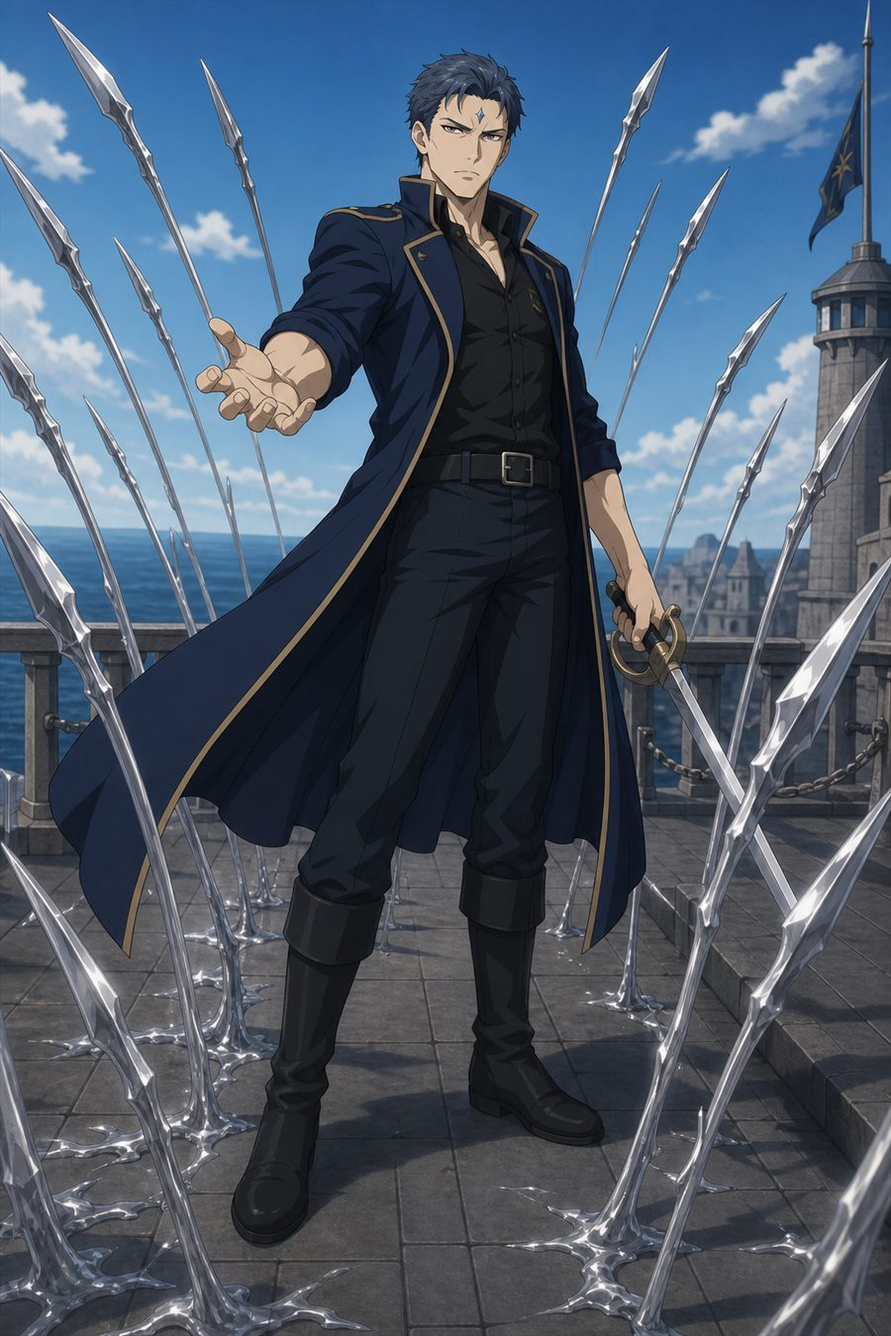
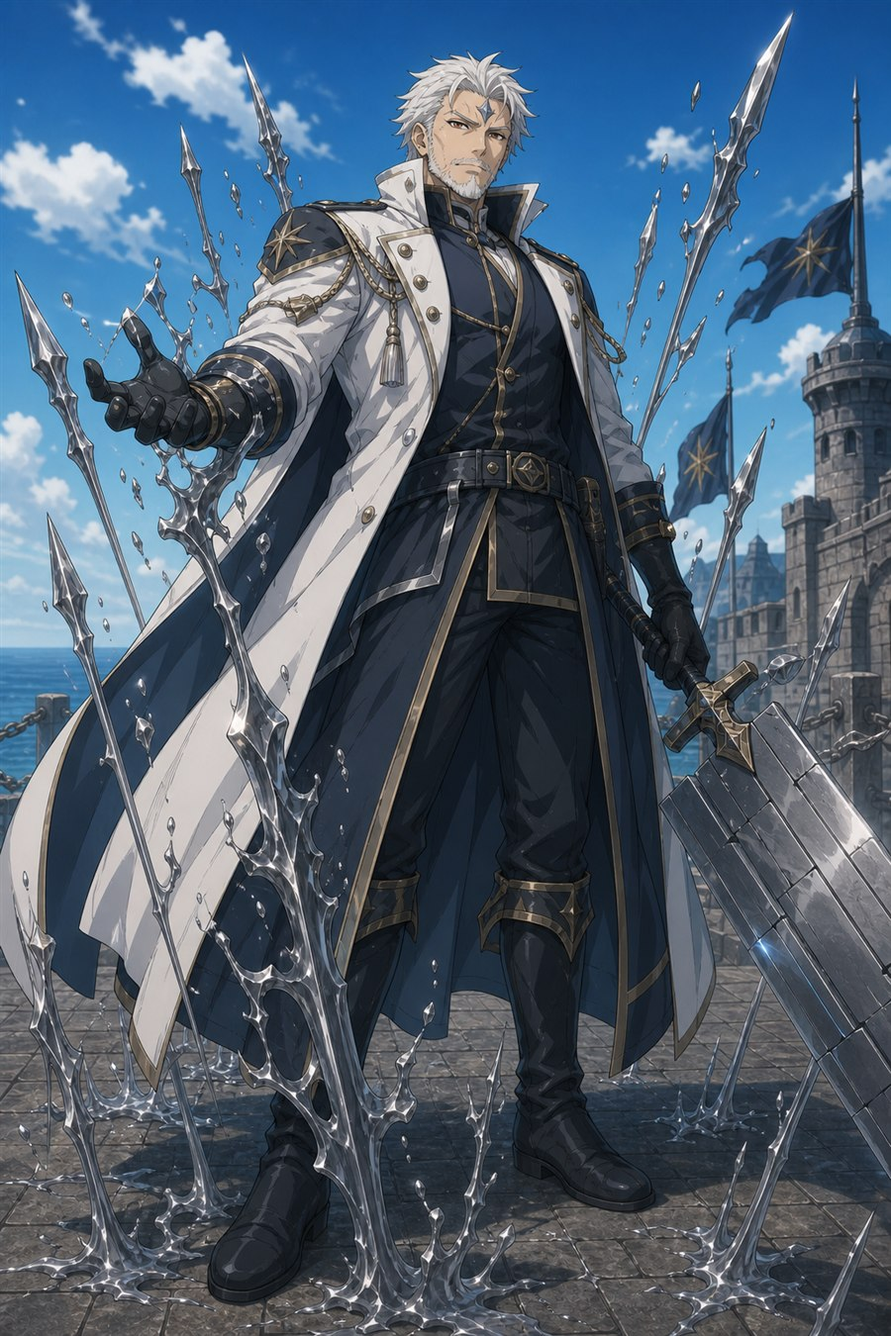
Finalize capital and four commander designs

diff --git a/site/candidates.html b/site/candidates.html
@@ -4,8 +4,8 @@
   <meta charset="utf-8">
   <meta name="viewport" content="width=device-width, initial-scale=1">
   <meta name="theme-color" content="#080c14">
-  <meta name="description" content="소울스톤 인간 연합의 거대 성과 육군·공군·해군·수비 대장 디자인 후보 50종">
-  <title>소울스톤 성·대장 디자인 후보</title>
+  <meta name="description" content="소울스톤 인간 연합의 거대 성과 육군·공군·해군·수비 대장 최종 디자인과 후보 아카이브">
+  <title>소울스톤 성·대장 최종 디자인</title>
   <link rel="stylesheet" href="concepts.css">
   <link rel="stylesheet" href="candidates.css">
 </head>
@@ -18,10 +18,10 @@
   <main>
     <header class="concept-intro choice-intro">
       <p>DESIGN SELECTION · 50 CANDIDATES</p>
-      <h1>성·4대장<br>후보 선택</h1>
+      <h1>성·4대장<br>최종 선택</h1>
       <div>
-        <p>성 10종과 인간 연합의 육군·공군·해군·수비 대장 각 10종입니다. 모든 후보는 현재 확정된 능력과 소울스톤 색을 유지하고, 외형과 무기 실루엣을 다르게 설계했습니다.</p>
-        <div class="choice-guide"><b>선택 방법</b><span>예: “성 03, 육군 04, 공군 02, 해군 10, 수비 01”처럼 번호만 알려주세요. 이미지를 누르면 크게 볼 수 있습니다.</span></div>
+        <p>성 03, 육군 09 수정안, 공군 10 수정안, 해군 06, 수비 01이 정본으로 확정되었습니다. 금색 테두리가 최종 선택이며, 다른 이미지는 디자인 과정의 후보 아카이브로 남깁니다.</p>
+        <div class="choice-guide"><b>선택 완료</b><span>육군 대장의 폴암 날과 공군 대장의 소울스톤 전투 부채까지 수정해 반영했습니다. 이미지를 누르면 크게 볼 수 있습니다.</span></div>
       </div>
     </header>
 
@@ -35,14 +35,14 @@
 
     <section class="candidate-section" id="castle" aria-labelledby="castle-title">
       <header class="candidate-head">
-        <p>HUMAN ALLIANCE CAPITAL · 10 / 10</p>
+        <p>HUMAN ALLIANCE CAPITAL · SELECTED 03 / 10</p>
         <h2 id="castle-title">인간 연합의<br>거대 성</h2>
         <span>구름 가까이 솟은 외벽 안에 시민의 마을과 일곱 가문의 구역이 있고, 중앙에는 모든 지붕을 압도하는 핵심 성채가 서 있습니다. 후반부에는 축적된 소울스톤으로 깨어나는 병기가 됩니다.</span>
       </header>
       <div class="candidate-grid castle-grid">
         <a class="candidate" href="assets/candidates-v1/castle/castle-01-concentric-white-capital.jpg" target="_blank" rel="noopener"><img src="assets/candidates-v1/castle/castle-01-concentric-white-capital.jpg" alt="성 후보 1 동심원 백색 수도" loading="eager"><div><b>01</b><span><strong>동심원 백색 수도</strong><small>정통 왕도 · 일곱 문 · 명확한 계층</small></span></div></a>
         <a class="candidate" href="assets/candidates-v1/castle/castle-02-mountain-terrace-capital.jpg" target="_blank" rel="noopener"><img src="assets/candidates-v1/castle/castle-02-mountain-terrace-capital.jpg" alt="성 후보 2 산맥 계단식 수도" loading="eager"><div><b>02</b><span><strong>산맥 계단식 수도</strong><small>배산 요새 · 수직 도시 · 험준함</small></span></div></a>
-        <a class="candidate" href="assets/candidates-v1/castle/castle-03-seven-district-capital.jpg" target="_blank" rel="noopener"><img src="assets/candidates-v1/castle/castle-03-seven-district-capital.jpg" alt="성 후보 3 칠각 일곱 구역 수도" loading="lazy"><div><b>03</b><span><strong>칠각 일곱 구역 수도</strong><small>칠대 가문 상징 · 기하학적 구조</small></span></div></a>
+        <a class="candidate selected" href="assets/candidates-v1/castle/castle-03-seven-district-capital.jpg" target="_blank" rel="noopener" aria-current="true"><img src="assets/candidates-v1/castle/castle-03-seven-district-capital.jpg" alt="성 최종 선택 3 칠각 일곱 구역 수도" loading="lazy"><div><b>03</b><span><strong>칠각 일곱 구역 수도</strong><small>최종 선택 · 칠대 가문 · 중앙성채</small></span></div></a>
         <a class="candidate" href="assets/candidates-v1/castle/castle-04-canal-ring-capital.jpg" target="_blank" rel="noopener"><img src="assets/candidates-v1/castle/castle-04-canal-ring-capital.jpg" alt="성 후보 4 운하 고리 수도" loading="lazy"><div><b>04</b><span><strong>운하 고리 수도</strong><small>수운 도시 · 다층 방어 · 생활감</small></span></div></a>
         <a class="candidate" href="assets/candidates-v1/castle/castle-05-black-basalt-capital.jpg" target="_blank" rel="noopener"><img src="assets/candidates-v1/castle/castle-05-black-basalt-capital.jpg" alt="성 후보 5 흑요 현무암 수도" loading="lazy"><div><b>05</b><span><strong>흑요 현무암 수도</strong><small>위압적 제국 · 붉은 불빛 · 병기성</small></span></div></a>
         <a class="candidate" href="assets/candidates-v1/castle/castle-06-bridge-aqueduct-capital.jpg" target="_blank" rel="noopener"><img src="assets/candidates-v1/castle/castle-06-bridge-aqueduct-capital.jpg" alt="성 후보 6 교량 수로 수도" loading="lazy"><div><b>06</b><span><strong>교량 수로 수도</strong><small>거대 교각 · 생활 기반 · 장대한 규모</small></span></div></a>
@@ -54,7 +54,7 @@
     </section>
 
     <section class="candidate-section" id="army" aria-labelledby="army-title">
-      <header class="candidate-head"><p>ARMY COMMANDER · SAND / POLEARM</p><h2 id="army-title">육군 대장</h2><span>모래 병사를 부리고 전장을 사막으로 바꾸는 강자입니다. 폴암의 칼날 전체가 과거 모래 전사의 거친 모래색 소울스톤입니다.</span></header>
+      <header class="candidate-head"><p>ARMY COMMANDER · SELECTED 09 / 10</p><h2 id="army-title">육군 대장</h2><span>09의 인물 디자인을 선택하고 무기 머리를 찌르기와 베기가 모두 가능한 폴암으로 수정했습니다. 여러 날 전체가 과거 모래 전사의 거친 모래색 소울스톤입니다.</span></header>
       <div class="candidate-grid compact-grid">
         <a class="candidate" href="assets/candidates-v1/army/army-01-command-coat.jpg" target="_blank" rel="noopener"><img src="assets/candidates-v1/army/army-01-command-coat.jpg" alt="육군 대장 후보 1" loading="lazy"><div><b>01</b><span><strong>흑발 지휘관</strong><small>장교 코트 · 정통 카리스마</small></span></div></a>
         <a class="candidate" href="assets/candidates-v1/army/army-02-silver-prodigy.jpg" target="_blank" rel="noopener"><img src="assets/candidates-v1/army/army-02-silver-prodigy.jpg" alt="육군 대장 후보 2" loading="lazy"><div><b>02</b><span><strong>은갈색 천재 장군</strong><small>젊은 강자 · 얼굴 흉터</small></span></div></a>
@@ -64,13 +64,13 @@
         <a class="candidate" href="assets/candidates-v1/army/army-06-masked-executioner.jpg" target="_blank" rel="noopener"><img src="assets/candidates-v1/army/army-06-masked-executioner.jpg" alt="육군 대장 후보 6" loading="lazy"><div><b>06</b><span><strong>사막의 집행자</strong><small>가면 · 공포 · 미스터리</small></span></div></a>
         <a class="candidate" href="assets/candidates-v1/army/army-07-blond-aristocrat.jpg" target="_blank" rel="noopener"><img src="assets/candidates-v1/army/army-07-blond-aristocrat.jpg" alt="육군 대장 후보 7" loading="lazy"><div><b>07</b><span><strong>금발 귀족 장군</strong><small>오만함 · 완성형 전사</small></span></div></a>
         <a class="candidate" href="assets/candidates-v1/army/army-08-silver-braided.jpg" target="_blank" rel="noopener"><img src="assets/candidates-v1/army/army-08-silver-braided.jpg" alt="육군 대장 후보 8" loading="lazy"><div><b>08</b><span><strong>은빛 땋은머리 장군</strong><small>묵직한 실전파</small></span></div></a>
-        <a class="candidate" href="assets/candidates-v1/army/army-09-bearded-veteran.jpg" target="_blank" rel="noopener"><img src="assets/candidates-v1/army/army-09-bearded-veteran.jpg" alt="육군 대장 후보 9" loading="lazy"><div><b>09</b><span><strong>적갈색 수염 장군</strong><small>노련함 · 거친 전장미</small></span></div></a>
+        <a class="candidate selected" href="assets/candidates-v1/army/army-09-bearded-veteran-polearm-v2.jpg" target="_blank" rel="noopener" aria-current="true"><img src="assets/candidates-v1/army/army-09-bearded-veteran-polearm-v2.jpg" alt="육군 대장 최종 선택 9 폴암 수정안" loading="lazy"><div><b>09</b><span><strong>적갈색 수염 장군</strong><small>최종 선택 · 소울스톤 폴암 수정안</small></span></div></a>
         <a class="candidate" href="assets/candidates-v1/army/army-10-ash-haired-quiet.jpg" target="_blank" rel="noopener"><img src="assets/candidates-v1/army/army-10-ash-haired-quiet.jpg" alt="육군 대장 후보 10" loading="lazy"><div><b>10</b><span><strong>잿빛 침묵의 장군</strong><small>절제 · 무표정 · 날카로움</small></span></div></a>
       </div>
     </section>
 
     <section class="candidate-section" id="air" aria-labelledby="air-title">
-      <header class="candidate-head"><p>AIR COMMANDER · WIND / AERIAL MOBILITY</p><h2 id="air-title">공군 대장</h2><span>날개 없이 바람을 발판 삼아 비행하고, 압축된 공기와 참격으로 공중전을 지배합니다. 소울스톤은 옅은 청록색입니다.</span></header>
+      <header class="candidate-head"><p>AIR COMMANDER · SELECTED 10 / 10</p><h2 id="air-title">공군 대장</h2><span>10의 인물 디자인을 선택하고 바람구체 대신 옅은 청록색 소울스톤으로 만들어진 한 자루의 대형 전투 부채를 추가했습니다. 부채가 압축풍을 모아 광역 참격으로 펼칩니다.</span></header>
       <div class="candidate-grid compact-grid">
         <a class="candidate" href="assets/candidates-v1/air/air-01-ponytail-saber.jpg" target="_blank" rel="noopener"><img src="assets/candidates-v1/air/air-01-ponytail-saber.jpg" alt="공군 대장 후보 1" loading="lazy"><div><b>01</b><span><strong>흑발 풍검 지휘관</strong><small>세이버 · 정통 공중전</small></span></div></a>
         <a class="candidate" href="assets/candidates-v1/air/air-02-silver-twin-blades.jpg" target="_blank" rel="noopener"><img src="assets/candidates-v1/air/air-02-silver-twin-blades.jpg" alt="공군 대장 후보 2" loading="lazy"><div><b>02</b><span><strong>은발 쌍검 장군</strong><small>여성 · 고속 기동</small></span></div></a>
@@ -81,19 +81,19 @@
         <a class="candidate" href="assets/candidates-v1/air/air-07-crescent-glaive.jpg" target="_blank" rel="noopener"><img src="assets/candidates-v1/air/air-07-crescent-glaive.jpg" alt="공군 대장 후보 7" loading="lazy"><div><b>07</b><span><strong>적갈색 월도 장군</strong><small>여성 · 넓은 참격 범위</small></span></div></a>
         <a class="candidate" href="assets/candidates-v1/air/air-08-wind-gauntlets.jpg" target="_blank" rel="noopener"><img src="assets/candidates-v1/air/air-08-wind-gauntlets.jpg" alt="공군 대장 후보 8" loading="lazy"><div><b>08</b><span><strong>풍압 권투 장군</strong><small>건틀릿 · 육탄 공중전</small></span></div></a>
         <a class="candidate" href="assets/candidates-v1/air/air-09-war-fan.jpg" target="_blank" rel="noopener"><img src="assets/candidates-v1/air/air-09-war-fan.jpg" alt="공군 대장 후보 9" loading="lazy"><div><b>09</b><span><strong>남색 군선 장군</strong><small>여성 · 지휘와 광역풍</small></span></div></a>
-        <a class="candidate" href="assets/candidates-v1/air/air-10-wind-sphere-ace.jpg" target="_blank" rel="noopener"><img src="assets/candidates-v1/air/air-10-wind-sphere-ace.jpg" alt="공군 대장 후보 10" loading="lazy"><div><b>10</b><span><strong>바람구체 에이스</strong><small>무기 없는 초능력형</small></span></div></a>
+        <a class="candidate selected" href="assets/candidates-v1/air/air-10-soulstone-war-fan-v2.jpg" target="_blank" rel="noopener" aria-current="true"><img src="assets/candidates-v1/air/air-10-soulstone-war-fan-v2.jpg" alt="공군 대장 최종 선택 10 소울스톤 부채 수정안" loading="lazy"><div><b>10</b><span><strong>소울스톤 부채 에이스</strong><small>최종 선택 · 청록 결정 전투 부채</small></span></div></a>
       </div>
     </section>
 
     <section class="candidate-section" id="navy" aria-labelledby="navy-title">
-      <header class="candidate-head"><p>NAVY COMMANDER · MOLTEN STEEL / SHAPING</p><h2 id="navy-title">해군 대장</h2><span>강철을 녹이고 굳혀 칼날·창·사슬을 즉석에서 만듭니다. 물이 아니라 금속 자체가 능력이며, 소울스톤은 청회색 금속빛입니다.</span></header>
+      <header class="candidate-head"><p>NAVY COMMANDER · SELECTED 06 / 10</p><h2 id="navy-title">해군 대장</h2><span>백발의 노련한 대검 베테랑으로 확정했습니다. 강철을 녹이고 굳혀 칼날·창·장갑을 즉석에서 만들며, 물이 아니라 금속 자체가 능력입니다.</span></header>
       <div class="candidate-grid compact-grid">
         <a class="candidate" href="assets/candidates-v1/navy/navy-01-steel-saber.jpg" target="_blank" rel="noopener"><img src="assets/candidates-v1/navy/navy-01-steel-saber.jpg" alt="해군 대장 후보 1" loading="lazy"><div><b>01</b><span><strong>남색 강철검 장군</strong><small>세이버 · 다중 강철창</small></span></div></a>
         <a class="candidate" href="assets/candidates-v1/navy/navy-02-steel-ribbons.jpg" target="_blank" rel="noopener"><img src="assets/candidates-v1/navy/navy-02-steel-ribbons.jpg" alt="해군 대장 후보 2" loading="lazy"><div><b>02</b><span><strong>은발 강철리본 장군</strong><small>여성 · 유연한 금속 제어</small></span></div></a>
         <a class="candidate" href="assets/candidates-v1/navy/navy-03-anchor-gauntlets.jpg" target="_blank" rel="noopener"><img src="assets/candidates-v1/navy/navy-03-anchor-gauntlets.jpg" alt="해군 대장 후보 3" loading="lazy"><div><b>03</b><span><strong>닻 건틀릿 장군</strong><small>중량형 · 근접 파괴력</small></span></div></a>
         <a class="candidate" href="assets/candidates-v1/navy/navy-04-hardened-blade.jpg" target="_blank" rel="noopener"><img src="assets/candidates-v1/navy/navy-04-hardened-blade.jpg" alt="해군 대장 후보 4" loading="lazy"><div><b>04</b><span><strong>장발 경화검 장군</strong><small>차가움 · 정밀한 형태변환</small></span></div></a>
         <a class="candidate" href="assets/candidates-v1/navy/navy-05-steel-trident.jpg" target="_blank" rel="noopener"><img src="assets/candidates-v1/navy/navy-05-steel-trident.jpg" alt="해군 대장 후보 5" loading="lazy"><div><b>05</b><span><strong>강철 삼지창 장군</strong><small>여성 · 해군 상징성</small></span></div></a>
-        <a class="candidate" href="assets/candidates-v1/navy/navy-06-steel-greatblade.jpg" target="_blank" rel="noopener"><img src="assets/candidates-v1/navy/navy-06-steel-greatblade.jpg" alt="해군 대장 후보 6" loading="lazy"><div><b>06</b><span><strong>백발 대검 베테랑</strong><small>노련함 · 거대한 강철량</small></span></div></a>
+        <a class="candidate selected" href="assets/candidates-v1/navy/navy-06-steel-greatblade.jpg" target="_blank" rel="noopener" aria-current="true"><img src="assets/candidates-v1/navy/navy-06-steel-greatblade.jpg" alt="해군 대장 최종 선택 6 백발 대검 베테랑" loading="lazy"><div><b>06</b><span><strong>백발 대검 베테랑</strong><small>최종 선택 · 거대한 강철량</small></span></div></a>
         <a class="candidate" href="assets/candidates-v1/navy/navy-07-steel-needles.jpg" target="_blank" rel="noopener"><img src="assets/candidates-v1/navy/navy-07-steel-needles.jpg" alt="해군 대장 후보 7" loading="lazy"><div><b>07</b><span><strong>청록 강철침 장군</strong><small>언더컷 · 고속 사격</small></span></div></a>
         <a class="candidate" href="assets/candidates-v1/navy/navy-08-chain-spear.jpg" target="_blank" rel="noopener"><img src="assets/candidates-v1/navy/navy-08-chain-spear.jpg" alt="해군 대장 후보 8" loading="lazy"><div><b>08</b><span><strong>강철 사슬창 장군</strong><small>여성 · 포획과 제압</small></span></div></a>
         <a class="candidate" href="assets/candidates-v1/navy/navy-09-anchor-cleaver.jpg" target="_blank" rel="noopener"><img src="assets/candidates-v1/navy/navy-09-anchor-cleaver.jpg" alt="해군 대장 후보 9" loading="lazy"><div><b>09</b><span><strong>닻 도끼 장군</strong><small>금발 · 정면 압도</small></span></div></a>
@@ -102,9 +102,9 @@
     </section>
 
     <section class="candidate-section" id="defense" aria-labelledby="defense-title">
-      <header class="candidate-head"><p>DEFENSE COMMANDER · LIGHT / BRUTE FORCE</p><h2 id="defense-title">수비 대장</h2><span>빛을 갑옷과 무기에 둘러 성문을 지키는 인간 연합 최강의 힘캐입니다. 따뜻한 백금색 소울스톤과 무너지지 않는 실루엣이 핵심입니다.</span></header>
+      <header class="candidate-head"><p>DEFENSE COMMANDER · SELECTED 01 / 10</p><h2 id="defense-title">수비 대장</h2><span>은발의 광휘 대검기사로 확정했습니다. 빛을 중갑과 대검에 둘러 성문을 지키는 인간 연합 최강의 힘캐입니다.</span></header>
       <div class="candidate-grid compact-grid">
-        <a class="candidate" href="assets/candidates-v1/defense/defense-01-silver-greatsword.jpg" target="_blank" rel="noopener"><img src="assets/candidates-v1/defense/defense-01-silver-greatsword.jpg" alt="수비 대장 후보 1" loading="lazy"><div><b>01</b><span><strong>은발 광휘 대검기사</strong><small>정통 영웅형 · 압도적 힘</small></span></div></a>
+        <a class="candidate selected" href="assets/candidates-v1/defense/defense-01-silver-greatsword.jpg" target="_blank" rel="noopener" aria-current="true"><img src="assets/candidates-v1/defense/defense-01-silver-greatsword.jpg" alt="수비 대장 최종 선택 1 은발 광휘 대검기사" loading="lazy"><div><b>01</b><span><strong>은발 광휘 대검기사</strong><small>최종 선택 · 대검 · 압도적 완력</small></span></div></a>
         <a class="candidate" href="assets/candidates-v1/defense/defense-02-shield-and-hammer.jpg" target="_blank" rel="noopener"><img src="assets/candidates-v1/defense/defense-02-shield-and-hammer.jpg" alt="수비 대장 후보 2" loading="lazy"><div><b>02</b><span><strong>흑발 방패망치 기사</strong><small>수문장 · 우직한 방어</small></span></div></a>
         <a class="candidate" href="assets/candidates-v1/defense/defense-03-light-gauntlets.jpg" target="_blank" rel="noopener"><img src="assets/candidates-v1/defense/defense-03-light-gauntlets.jpg" alt="수비 대장 후보 3" loading="lazy"><div><b>03</b><span><strong>백발 광권 기사</strong><small>여성 · 빛 건틀릿 · 육탄전</small></span></div></a>
         <a class="candidate" href="assets/candidates-v1/defense/defense-04-fortress-shield.jpg" target="_blank" rel="noopener"><img src="assets/candidates-v1/defense/defense-04-fortress-shield.jpg" alt="수비 대장 후보 4" loading="lazy"><div><b>04</b><span><strong>금발 성채방패 기사</strong><small>거구 · 절대 방어</small></span></div></a>
@@ -117,7 +117,7 @@
       </div>
     </section>
 
-    <aside class="selection-footer"><p><b>다음 단계:</b> 다섯 항목의 번호가 정해지면 선택된 디자인을 정본 캐릭터 이미지와 세계관 문서, 소설·웹툰 대표 이미지에 순서대로 반영할 수 있습니다.</p><a href="#castle">맨 위로 ↑</a></aside>
+    <aside class="selection-footer"><p><b>정본 반영 완료:</b> 선택된 성과 네 대장은 세계관 문서, 캐릭터 바이블과 공개 캐릭터 갤러리의 정본 이미지로 연결되어 있습니다.</p><a href="#castle">맨 위로 ↑</a></aside>
   </main>
 
   <footer><a href="index.html">← 시작 화면으로 돌아가기</a></footer>

diff --git a/site/app.js b/site/app.js
@@ -35,7 +35,7 @@
     ["2대 국가원수", "인간연합", "assets/characters/important/05-second-marshal-dragon-relic.jpg", "용의 유물 소울스톤을 사용하는 전대 원수. 최종전에서 1대 원수와 서로의 시대를 끝낸다.", ["용의 유물", "2대 원수"]],
     ["3대 국가원수", "인간연합", "assets/characters/important/06-third-marshal-telekinesis.jpg", "감정 표현이 거의 없는 염동력 사용자. 주인공에게 패배한 뒤 살아서 전군 정전을 명령한다.", ["밀기와 당기기", "무채색 회색", "정전"]],
     ["모래의 육군 대장", "인간연합", "assets/characters/important/07-army-commander-sand.jpg", "주인공의 부모를 죽이고 형을 병기로 훈련시킨 인물. 네 대장 중 유일하게 최종전에서 죽는다.", ["모래 병사", "폴암", "가족의 원수"]],
-    ["바람의 공군 대장", "인간연합", "assets/characters/important/08-air-commander-wind.jpg", "압축 풍압과 광역 절단을 쓰는 공중전 지휘관. 늑대인간과 하피족에게 패배한다.", ["바람", "공중 기동"]],
+    ["바람의 공군 대장", "인간연합", "assets/characters/important/08-air-commander-wind.jpg", "청록색 소울스톤 전투 부채로 압축 풍압과 광역 절단을 쓰는 공중전 지휘관. 늑대인간과 하피족에게 패배한다.", ["바람", "소울스톤 부채", "공중 기동"]],
     ["강철의 해군 대장", "인간연합", "assets/characters/important/09-navy-commander-steel.jpg", "강철을 녹이고 굳혀 파도와 창, 장갑으로 바꾸는 지휘관. 반인반용과 어인족이 맞선다.", ["강철", "해군"]],
     ["빛의 수비 대장", "인간연합", "assets/characters/important/10-defense-commander-light.jpg", "빛과 압도적인 완력을 쓰는 중갑 기사. 트롤 대장과 수정동굴 공동체가 성문에서 맞선다.", ["빛", "완력", "수비"]],
     ["육군 1번대 중장", "인간연합", "assets/characters/important/11-army-first-vice-admiral-shards.jpg", "거대한 검을 수많은 작은 칼날로 분해하는 여성 지휘관. 단검 사용자의 옛 상관이다.", ["분할 칼날", "여성 지휘관"]],

diff --git a/site/archive.html b/site/archive.html
@@ -119,6 +119,7 @@
         <p>캐주얼한 현대 애니메이션 선화와 밝은 셀 채색을 기준으로 인물과 종족의 인상을 통일했다.</p>
       </header>
       <div class="visual-mosaic">
+        <figure class="wide"><img src="assets/locations/01-human-alliance-capital.jpg" alt="칠각 일곱 구역으로 나뉜 인간 연합 중앙성" loading="lazy"><figcaption>인간 연합 중앙성 · 03 칠각 일곱 구역 수도</figcaption></figure>
         <figure class="wide"><img src="assets/characters/anime-v4/05-beastfolk-leaders-anime-v4.jpg" alt="늑대인간 지도자와 사자인간 2인자" loading="lazy"><figcaption>반인반수 지도자와 2인자</figcaption></figure>
         <figure><img src="assets/characters/anime-v4/06-troll-leader-anime-v4.jpg" alt="젊은 트롤 대장" loading="lazy"><figcaption>수정동굴의 트롤 대장</figcaption></figure>
         <figure><img src="assets/characters/anime-v4/07-golem-leader-anime-v4.jpg" alt="인간형 돌 골렘 대장" loading="lazy"><figcaption>자연에서 태어난 골렘 대장</figcaption></figure>

diff --git a/site/concepts.html b/site/concepts.html
@@ -11,7 +11,7 @@
 <body>
   <header class="concept-header">
     <a href="index.html">SOULSTONE</a>
-    <nav><a href="candidates.html">성·대장 후보</a><a href="archive.html#characters">캐릭터 목록</a><a href="index.html">시작 화면</a></nav>
+    <nav><a href="candidates.html">성·대장 최종안</a><a href="archive.html#characters">캐릭터 목록</a><a href="index.html">시작 화면</a></nav>
   </header>
   <main>
     <header class="concept-intro">

diff --git a/site/index.html b/site/index.html
@@ -57,7 +57,7 @@
 
   <footer class="portal-footer">
     <span>ORIGINAL DARK FANTASY PROJECT</span>
-    <a href="candidates.html">성·대장 후보 선택</a>
+    <a href="candidates.html">성·대장 최종 디자인</a>
     <a href="archive.html#archive">전체 자료실</a>
   </footer>
 </body>

diff --git a/docs/05-soulstone-rules.md b/docs/05-soulstone-rules.md
@@ -45,6 +45,7 @@
 4. 유물을 바꾸려면 현재 유물의 연결을 완전히 끊고 다음 유물과 연결해야 한다. 전투 중 교체는 큰 공백과 부담을 만든다.
 5. 사자인간의 너클에 여러 선조의 돌이 박혀 있어도 한 순간에는 하나만 활성화된다. 나머지는 휴면 상태다.
 6. 육군 대장은 자신의 모래 능력과 폴암 유물 하나를 함께 쓴다. 타고난 소울스톤은 외부 유물 제한에 포함하지 않는다.
+7. 공군 대장은 자신의 바람 능력과 소울스톤 전투 부채 하나를 함께 쓴다. 부채의 살과 판은 장식용으로 여러 돌을 붙인 것이 아니라 하나의 유물 소울스톤을 펼친 구조다.
 
 ## 6. 주인공 쌍검의 예외
 
@@ -62,6 +63,7 @@
 | 뱀파이어 쌍검 | 일란성 쌍둥이 뱀파이어 | 피를 흡수할수록 사용자 강화, 쌍둥이 인격 소환 | 심장과 생명 소모, 인격 침식 |
 | 빙관의 군주 | 강력한 얼음 군주 | 희고 푸른 칼날 전체가 소울스톤. 극도로 정밀한 냉기와 결빙 | 진주빛 흰 소울스톤의 노인은 검술 보조로만 사용 |
 | 모래색 폴암 날 | 과거의 강대한 모래 전사 | 거친 모래색 칼날 전체가 소울스톤. 모래 병사와 지형 조작 강화 | 육군 대장의 타고난 모래 능력과 결합 |
+| 청록색 전투 부채 | 전 주인 미정 | 살과 넓은 판 전체가 하나의 소울스톤. 바람을 압축하고 펼쳐 광역 참격 증폭 | 공군 대장의 타고난 바람 능력과 결합 |
 | 하늘빛 거대 수정 원석 | 트롤 선조 계통 | 받은 충격 저장 및 일괄 방출 | 저장량만큼 무거워짐 |
 | 사자의 선조 너클 | 여러 반인반수 선조 | 선택한 선조의 특징을 너클에 부여 | 한 번에 한 돌만 활성화 가능 |
 | 2대 원수의 용 유물 | 죽은 용 | 용의 신체·에너지 계통 능력 | 구체 대가 추후 확정 |

diff --git a/docs/07-novel.md b/docs/07-novel.md
@@ -198,7 +198,7 @@
 
 흑영대가 먼저 수용소의 문과 성문 장치를 열었다. 골렘은 성벽을 무너뜨리는 대신 피난용 다리와 지하 통로를 만들었다. 거미인간은 실의 진동으로 전장의 움직임을 하나의 망에 연결했다. 오크 검성은 난민 행렬과 소년 사이에서 한 발도 물러나지 않았다.
 
-바다에서는 어인족이 해군의 소울스톤 수송선을 멈추고 수로를 열었다. 하피족은 공중에서 민간인의 위치를 표시했다. 늑대인간과 하피는 바람의 공군 대장을 꺾었지만 죽이지 않았다. 반인반용과 어인들은 강철의 해군 대장을 제압했고, 트롤 대장은 저장한 충격을 한 번에 방출해 빛의 수비 대장을 무릎 꿇렸다. 세 대장은 살아남았다.
+바다에서는 어인족이 해군의 소울스톤 수송선을 멈추고 수로를 열었다. 하피족은 공중에서 민간인의 위치를 표시했다. 공군 대장이 옅은 청록색 소울스톤 부채를 펼칠 때마다 압축된 바람이 하늘을 길게 갈랐지만, 늑대인간과 하피는 그를 꺾고도 죽이지 않았다. 반인반용과 어인들은 백발의 해군 대장이 일으킨 강철의 대검과 파도를 제압했고, 트롤 대장은 저장한 충격을 한 번에 방출해 은발 수비 대장을 무릎 꿇렸다. 세 대장은 살아남았다.
 
 육군 대장 앞에는 형이 섰다. 모래는 그의 살을 깎았고, 형의 몸은 상처를 견딜 때마다 변했다. 그는 부모를 죽인 자에게 적응하면서도 계속 피를 흘렸다. 장로회가 자신을 원수로 만들 생각이 아니라 통제 가능한 기계로만 보았다는 명령서가 그의 손에 있었다.
 

diff --git a/docs/03-character-bible.md b/docs/03-character-bible.md
@@ -193,23 +193,27 @@
 
 ### 육군 대장
 
-- 모래 능력과 모래 병사를 사용한다. 폴암은 거친 모래색 칼날 전체가 과거 강대한 모래 전사의 유물 소울스톤이다.
+- 외형 정본: 09 적갈색 수염 장군 수정안. 거친 전장에서 살아남은 노련한 베테랑이다.
+- 모래 능력과 모래 병사를 사용한다. 긴 찌르기 날과 좌우 베기 날을 가진 폴암의 머리 전체가 과거 강대한 모래 전사의 거친 모래색 유물 소울스톤이다.
 - 주인공의 부모를 죽였고 형의 실전 훈련을 담당했다.
 - 자신의 폭력을 질서 유지로 정당화한다.
 - 최종전에서 적응 진화를 쓰는 형에게 죽는다. 네 대장 중 유일한 사망자다.
 
 ### 공군 대장
 
-- 바람 능력. 공중 기동, 압축 풍압과 광역 절단에 능하다.
+- 외형 정본: 10 바람 에이스 수정안. 옅은 청록색 소울스톤 부채를 든 은회색 장발의 지휘관이다.
+- 바람 능력. 날개 없이 공중을 이동하고 압축 풍압과 광역 절단을 사용한다. 한 자루의 대형 전투 부채는 살과 판 전체가 하나의 유물 소울스톤이며 바람을 모으고 펼치는 증폭기다.
 - 늑대인간과 하피족에게 패배하지만 살아남는다.
 
 ### 해군 대장
 
+- 외형 정본: 06 백발 대검 베테랑.
 - 강철을 녹이고 굳히며 창, 파편, 장갑, 파도 형태로 변환한다.
 - 반인반용과 어인족에게 패배하지만 살아남는다.
 
 ### 수비 대장
 
+- 외형 정본: 01 은발 광휘 대검기사.
 - 전신 갑옷, 빛과 압도적인 완력의 기사.
 - 트롤 대장에게 패배하지만 살아남는다.
 

diff --git a/docs/10-castle-commander-candidate-prompts.md b/docs/10-castle-commander-candidate-prompts.md
@@ -50,3 +50,13 @@
 > Original top-ranked human defense commander, full-body anime character concept. Massive armored knight, warm white-gold forehead Soulstone, light power and overwhelming physical strength. Must look like an unmovable human fortress rather than a generic holy knight. Casual modern 2D TV-anime line art and cel shading, no text or logo.
 
 변형: 은발 대검 / 흑발 방패와 망치 / 백발 광권 여성 / 금발 성채방패 / 적갈색 광창 여성 / 태양 망치 / 흑발 거검 여성 / 은장발 중창 / 쌍원방패 여성 / 성문방패 베테랑.
+
+## 최종 선택과 수정
+
+- 중앙성: 03 칠각 일곱 구역 수도.
+- 육군 대장: 09 적갈색 수염 장군. 기존의 둔중한 결정 무기 머리만 긴 찌르기 날, 좌우 베기 날과 뒤쪽 갈고리가 분명한 폴암으로 수정했다. 머리 전체는 하나의 거친 모래색 소울스톤이며 인물과 배경은 유지했다.
+- 공군 대장: 10 바람 에이스. 양손의 바람구체를 제거하고, 살과 넓은 판 전체가 옅은 청록색 결정인 한 자루의 소울스톤 전투 부채를 추가했다. 인물과 공중 구도, 주변 바람의 흐름은 유지했다.
+- 해군 대장: 06 백발 대검 베테랑.
+- 수비 대장: 01 은발 광휘 대검기사.
+
+수정본도 OpenAI 내장 이미지 편집 모드로 제작했다. 정본 원본은 `important-characters-v1`, 성 정본은 `important-locations-v1`에 반영했다.

diff --git a/docs/00-canon-decisions.md b/docs/00-canon-decisions.md
@@ -31,6 +31,16 @@
 10. **여성 거미인간 대장 — 09 백색동굴거미 청망자**
    - 백발과 반투명 상아색 보조다리 네 개, 옅은 보라색 소울스톤을 지닌 탐지형 지도자로 확정한다.
    - 동굴과 전장 전체에 감각실을 퍼뜨려 진동을 듣고, 정찰·통신·안전 경로 탐색을 맡는다.
+11. **인간 연합 중앙성 — 03 칠각 일곱 구역 수도**
+   - 초고층 외벽 안에 시민 도시와 일곱 가문의 구역이 나뉘고, 중앙에는 모든 건물을 압도하는 장로회 성채가 솟는다.
+12. **육군 대장 — 09 적갈색 수염 장군 수정안**
+   - 거친 전장 베테랑의 외형으로 확정한다. 긴 찌르기 날과 좌우 베기 날을 가진 폴암의 머리 전체가 모래색 유물 소울스톤이다.
+13. **공군 대장 — 10 바람 에이스 수정안**
+   - 옅은 청록색 소울스톤으로 만들어진 한 자루의 대형 전투 부채를 사용한다. 부채의 살과 넓은 판 전체가 하나의 유물 소울스톤이다.
+14. **해군 대장 — 06 백발 대검 베테랑**
+   - 강철을 녹이고 굳혀 거대한 대검과 다수의 무기를 만드는 노련한 지휘관으로 확정한다.
+15. **수비 대장 — 01 은발 광휘 대검기사**
+   - 중갑과 대검, 빛과 압도적인 완력을 사용하는 정통 수문장형 지휘관으로 확정한다.
 
 ## 함께 유지한 기존 확정 사항
 

diff --git a/assets/concept-art/selection-v1/README.md b/assets/concept-art/selection-v1/README.md
@@ -1,6 +1,6 @@
 # 인간 연합 성·4대장 디자인 후보
 
-성 10종과 인간 연합의 육군·공군·해군·수비 대장 각 10종, 총 50개의 원본 PNG 후보입니다. 번호가 확정되기 전까지 모두 디자인 탐색안이며 정본이 아닙니다.
+성 10종과 인간 연합의 육군·공군·해군·수비 대장 각 10종, 총 50개의 원본 PNG 후보와 선택 후 수정본입니다. 사용자가 성 03, 육군 09 수정안, 공군 10 수정안, 해군 06, 수비 01을 정본으로 확정했습니다.
 
 - [`castle`](castle): 외벽 안의 시민 도시와 중앙 초고층 성채를 가진 인간 연합 수도 10종
 - [`army`](army): 모래 병사와 소울스톤 폴암을 쓰는 육군 대장 10종
@@ -9,6 +9,14 @@
 - [`defense`](defense): 빛과 괴력을 쓰는 중갑 수비 대장 10종
 - [웹 선택 갤러리](../../../site/candidates.html)
 - [생성 프롬프트와 변형 기준](../../../docs/10-castle-commander-candidate-prompts.md)
+
+## 최종 선택
+
+- 성: `castle/castle-03-seven-district-capital.png`
+- 육군 대장: `army/army-09-bearded-veteran-polearm-v2.png`
+- 공군 대장: `air/air-10-soulstone-war-fan-v2.png`
+- 해군 대장: `navy/navy-06-steel-greatblade.png`
+- 수비 대장: `defense/defense-01-silver-greatsword.png`
 
 ## 공통 시각 기준
 

diff --git a/assets/concept-art/important-characters-v1/README.md b/assets/concept-art/important-characters-v1/README.md
@@ -34,17 +34,25 @@
 
 ![육군 대장](07-army-commander-sand.png)
 
+사용자가 선택한 **09 적갈색 수염 장군 수정안** 정본. 찌르기용 장창날과 좌우 베기 날이 분명한 폴암의 머리 전체가 모래색 유물 소울스톤이다.
+
 ### 8. 바람의 공군 대장
 
 ![공군 대장](08-air-commander-wind.png)
+
+사용자가 선택한 **10 바람 에이스 수정안** 정본. 부채의 살과 판 전체가 옅은 청록색 소울스톤인 한 자루의 대형 전투 부채로 압축 풍압을 모으고 펼친다.
 
 ### 9. 강철의 해군 대장
 
 ![해군 대장](09-navy-commander-steel.png)
 
+사용자가 선택한 **06 백발 대검 베테랑** 정본.
+
 ### 10. 빛의 수비 대장
 
 ![수비 대장](10-defense-commander-light.png)
+
+사용자가 선택한 **01 은발 광휘 대검기사** 정본.
 
 ### 11. 분열 칼날의 육군 1번대 중장
 
@@ -90,6 +98,7 @@
 
 - [하피족 지도자 후보 10안](../harpy-candidates-v1/README.md)
 - [여성 거미인간 대장 후보 10안](../spiderwoman-candidates-v1/README.md)
+- [인간 연합 성·4대장 후보와 선택안](../selection-v1/README.md)
 
 - [`anime-v4` 통일 캐릭터 갤러리](../anime-v4/README.md)
 - [시즌 1 전 60화 대표 이미지](../../episode-keyframes/season-01/README.md)
